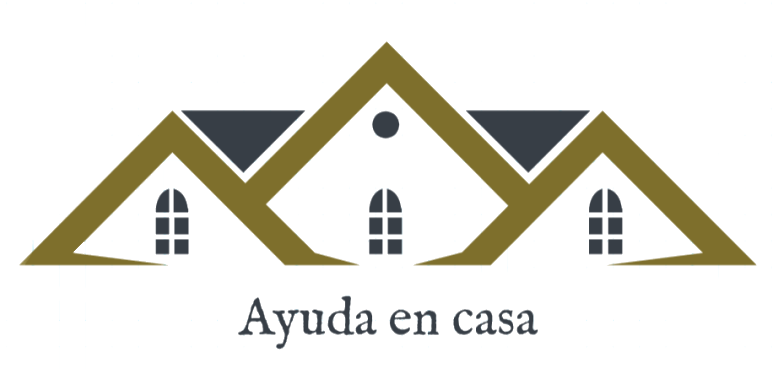
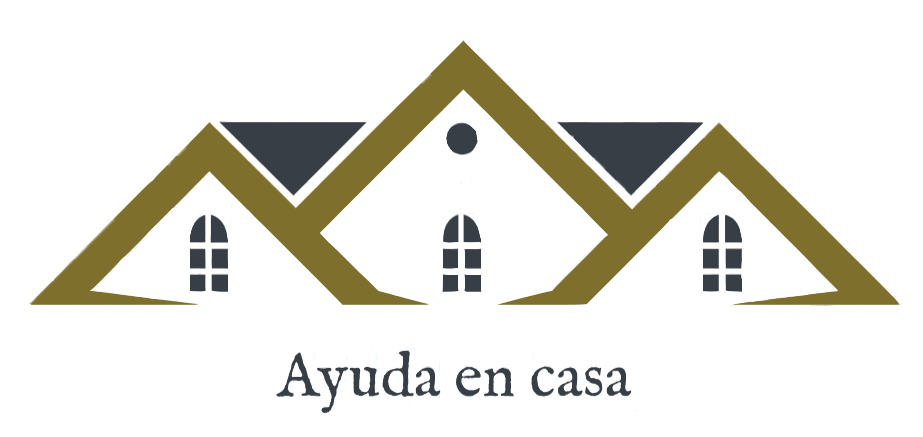
foto

diff --git a/src/components/Hero.js b/src/components/Hero.js
@@ -5,7 +5,7 @@ export default function Hero() {
     <section className="hero is-primary">
       <div className="hero-body">
         <div className="container">
-          <img src="Ayuda en casa.png" alt="conserve energy" />
+        <div align="center">  <img src="Ayuda en casa.png" alt="conserve energy" /></div>
         </div>
       </div>
     </section>
